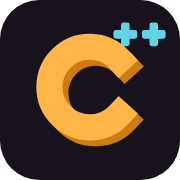
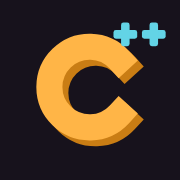
Ícono cuadrado sin bordes blancos en el recuadro de audio del iPhone
Claude-Session: https://claude.ai/code/session_01TqUxn5k3e4zJGD6pt6Ej9U

diff --git a/index.html b/index.html
@@ -7,14 +7,14 @@
 <link rel="icon" href="favicon.ico?v=2" sizes="any">
 <link rel="icon" href="img/favicon.svg?v=2" type="image/svg+xml">
 <link rel="icon" href="img/favicon-32.png?v=2" type="image/png" sizes="32x32">
-<link rel="apple-touch-icon" href="img/apple-touch-icon.png?v=2">
+<link rel="apple-touch-icon" href="img/apple-touch-icon.png?v=3">
 <meta name="theme-color" content="#17121c">
 <meta name="claude:viewport-fit-sides" content="cover">
 <meta name="description" content="Arcade para aprender los conceptos de C++: memoria, punteros, control de flujo y clases.">
 <link rel="preconnect" href="https://fonts.googleapis.com">
 <link rel="preconnect" href="https://fonts.gstatic.com" crossorigin>
 <link rel="stylesheet" href="https://fonts.googleapis.com/css2?family=Bungee&family=Chakra+Petch:wght@400;600;700&family=JetBrains+Mono:wght@400;700&display=swap">
-<link rel="stylesheet" href="css/style.css?v=20261105k">
+<link rel="stylesheet" href="css/style.css?v=20261105l">
 </head>
 <body>
 <div id="app">
@@ -316,15 +316,15 @@
   </section>
 
 </div>
-<script src="js/storage.js?v=20261105k"></script>
-<script src="js/questions.js?v=20261105k"></script>
-<script src="js/engines.js?v=20261105k"></script>
-<script src="js/sound.js?v=20261105k"></script>
-<script src="js/firebase-config.js?v=20261105k"></script>
-<script src="js/cloud.js?v=20261105k"></script>
-<script src="js/bg.js?v=20261105k"></script>
-<script src="js/app.js?v=20261105k"></script>
-<script src="js/egg.js?v=20261105k"></script>
-<script src="js/audio-test.js?v=20261105k"></script>
+<script src="js/storage.js?v=20261105l"></script>
+<script src="js/questions.js?v=20261105l"></script>
+<script src="js/engines.js?v=20261105l"></script>
+<script src="js/sound.js?v=20261105l"></script>
+<script src="js/firebase-config.js?v=20261105l"></script>
+<script src="js/cloud.js?v=20261105l"></script>
+<script src="js/bg.js?v=20261105l"></script>
+<script src="js/app.js?v=20261105l"></script>
+<script src="js/egg.js?v=20261105l"></script>
+<script src="js/audio-test.js?v=20261105l"></script>
 </body>
 </html>

diff --git a/js/sound.js b/js/sound.js
@@ -44,7 +44,24 @@
     } catch (e) { htmlUnlocked = false; }
   }
 
+  // Lo que muestra el iPhone en el recuadro de audio de la pantalla bloqueada: nombre e ícono cuadrado
+  // de borde a borde (si no, usa el ícono con esquinas transparentes y las rellena de blanco).
+  function setMediaInfo() {
+    try {
+      if (!("mediaSession" in navigator) || typeof MediaMetadata === "undefined") return;
+      const img = f => new URL("img/" + f, location.href).href;
+      navigator.mediaSession.metadata = new MediaMetadata({
+        title: "C++ Arcade", artist: "cpparcade.cl",
+        artwork: [
+          { src: img("icon-512.png?v=3"), sizes: "512x512", type: "image/png" },
+          { src: img("apple-touch-icon.png?v=3"), sizes: "180x180", type: "image/png" }
+        ]
+      });
+    } catch (e) { /* no soportado */ }
+  }
+
   function create() {
+    setMediaInfo();
     const AC = window.AudioContext || window.webkitAudioContext;
     if (!AC) return false;
     if (TOUCH) { try { if (navigator.audioSession) navigator.audioSession.type = "playback"; } catch (e) { /* no soportado */ } }
